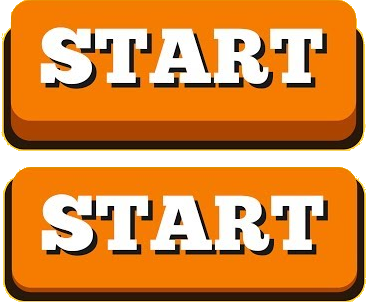
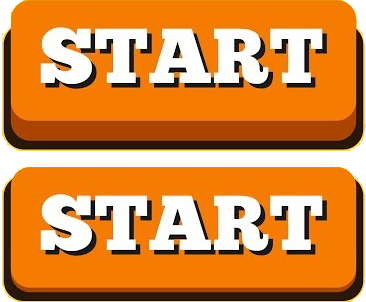
Button and new big map and new sprite

diff --git a/main.py b/main.py
@@ -246,15 +246,15 @@ def generate_level(level):
     for y in range(len(level)):
         for x in range(len(level[y])):
             if level[y][x] == '.':
-                Tile('empty', x-3, y-3)
+                Tile('empty', x - 3, y - 3)
             elif level[y][x] == '#':
-                Plat('wall', x-3, y-3)
+                Plat('wall', x - 3, y - 3)
             elif level[y][x] == '?':
-                Tile('empty', x-3, y-3)
-                new_enemy = Enemy( x-3, y-3, [enemy_idle, enemy_flight, enemy_attack])
+                Tile('empty', x - 3, y - 3)
+                new_enemy = Enemy(x - 3, y - 3, [enemy_idle, enemy_flight, enemy_attack])
             elif level[y][x] == '*':
-                Tile('empty', x-3, y-3)
-                new_boss = Boss( x-3, y-3, [boss_idle, boss_shoot])
+                Tile('empty', x - 3, y - 3)
+                new_boss = Boss(x - 3, y - 3, [boss_idle, boss_shoot])
 
     new_player = Player(WIDTH // 2 - 50, HEIGHT // 2 - 50, [player_idle, player_walk, player_jump, player_attack])
     return new_player, new_enemy, new_boss, WIDTH, HEIGHT
@@ -327,18 +327,18 @@ plat_group = pygame.sprite.Group()
 enemy_group = pygame.sprite.Group()
 boss_group = pygame.sprite.Group()
 button_group = pygame.sprite.Group()
-cursors = pygame.sprite.Group()
-technical_sprite = pygame.sprite.Group()
-
+cursors_group = pygame.sprite.Group()
+technical_sprite_group = pygame.sprite.Group()
+fon_group = pygame.sprite.Group()
 player_idle = AnimatedSprite(load_image('Woodcutter_idle.png'), 4, 1, WIDTH // 2, HEIGHT // 2, scaling=(65, 65))
 player_image = player_idle.frames[0]
 player_walk = AnimatedSprite(load_image('Woodcutter_walk.png'), 6, 1, WIDTH // 2, HEIGHT // 2, scaling=(65, 65))
 player_jump = AnimatedSprite(load_image('Woodcutter_jump.png'), 6, 1, WIDTH // 2, HEIGHT // 2, scaling=(65, 65))
 player_attack = AnimatedSprite(load_image('Woodcutter_attack1.png'), 6, 1, WIDTH // 2, HEIGHT // 2, scaling=(65, 65))
 tile_width = tile_height = 50
-
-button_play = AnimatedSprite(load_image('button_play_animation2.png'), 1, 2, WIDTH // 2 - 47, HEIGHT // 2 - 38,
-                             group=button_group, need_scale=True, scaling=(94, 75))
+fon = AnimatedSprite(load_image('fon_anim.png'), 1, 4, 0, 0, group=fon_group, need_scale=True, scaling=(WIDTH, HEIGHT))
+button_play = AnimatedSprite(load_image('button_anim.png'), 1, 2, WIDTH // 2 - 125, HEIGHT // 2 - 36,
+                             group=button_group, need_scale=True, scaling=(250, 73))
 
 enemy_idle = AnimatedSprite(load_image("Enemy_movement/Enemy_idle.png"), 4, 1, 0, 0)
 enemy_image = enemy_idle.frames[0]
@@ -352,16 +352,16 @@ heart = pygame.image.load("data/Health.png")
 level_map = load_level('map.txt')
 
 cursor = AnimatedSprite(load_image('cursor1_2.png'), 1, 1, pygame.mouse.get_pos()[0], pygame.mouse.get_pos()[1],
-                        need_scale=True, scaling=(40, 40), group=cursors)
+                        need_scale=True, scaling=(40, 40), group=cursors_group)
 double_cursor = AnimatedSprite(load_image('double_cursor.png'), 1, 1, pygame.mouse.get_pos()[0],
-                               pygame.mouse.get_pos()[1], group=technical_sprite, need_scale=False)
+                               pygame.mouse.get_pos()[1], group=technical_sprite_group, need_scale=False)
 player, enemy, boss, level_x, level_y = generate_level(load_level('map.txt'))
 
 
 def start_screen():
     pygame.mouse.set_visible(0)
     intro_text = []
-    fon = pygame.transform.scale(load_image('fon2.png'), (WIDTH, HEIGHT))
+    # fon = pygame.transform.scale(load_image('fon2.png'), (WIDTH, HEIGHT))
 
     font = pygame.font.Font(None, 30)
     text_coord = 50
@@ -373,9 +373,11 @@ def start_screen():
         intro_rect.x = 10
         text_coord += intro_rect.height
         screen.blit(string_rendered, intro_rect)
-
+    counter = 0
     while True:
+        counter += 1
         out = False
+        screen.fill((0, 0, 0))
         for event in pygame.event.get():
             if event.type == pygame.QUIT:
                 terminate()
@@ -386,16 +388,21 @@ def start_screen():
                     out = True
         cursor.move(pygame.mouse.get_pos()[0] - 6, pygame.mouse.get_pos()[1])
         double_cursor.move(pygame.mouse.get_pos()[0], pygame.mouse.get_pos()[1])
-        technical_sprite.draw(screen)
-        screen.blit(fon, (0, 0))
+        technical_sprite_group.draw(screen)
+        # screen.blit(fon, (0, 0))
+        fon_group.draw(screen)
         button_group.draw(screen)
-        if pygame.mouse.get_pos()[0] > 0 and pygame.mouse.get_pos()[1] > 0:
-            cursors.draw(screen)
+        if pygame.mouse.get_pos()[0] > 0 and pygame.mouse.get_pos()[1] > 0 and pygame.mouse.get_pos()[0] < WIDTH -1 and \
+                pygame.mouse.get_pos()[1] < HEIGHT -1 :
+            cursors_group.draw(screen)
         pygame.display.flip()
         if out:
             time.sleep(0.1)
             return
         clock.tick(FPS)
+        if counter == 100:
+            fon.update()
+            counter = 0
 
 
 if __name__ == '__main__':
